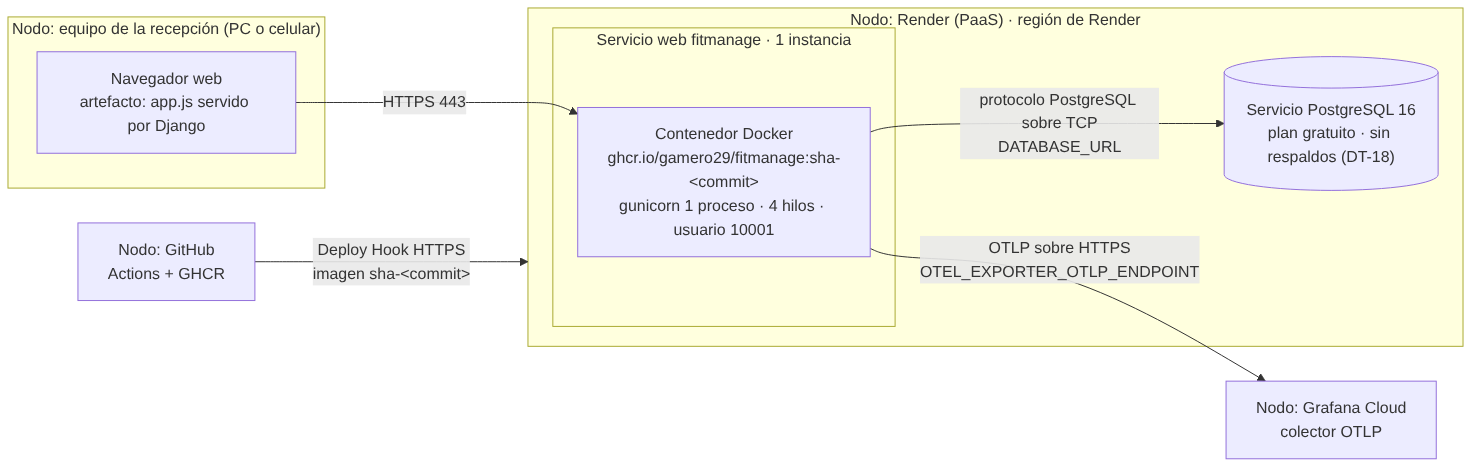
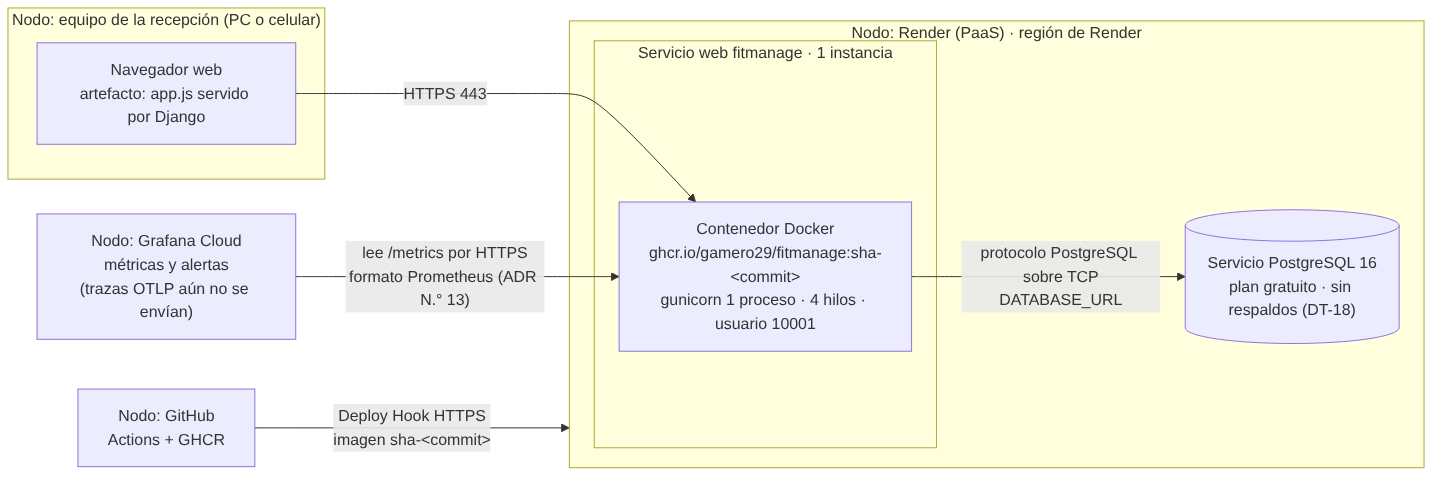
docs(SW3-02): la vista física corrige el enlace de observabilidad que propuso la IA
Grafana Cloud lee /metrics (formato Prometheus); las trazas OTLP de producción
todavía no se envían (ADR N.° 13). Se conserva la propuesta original y la
tabla de verificación afirmación por afirmación.

Claude-Session: https://claude.ai/code/session_01CgRjTNNy7k8MQdpVgHeNej

diff --git a/docs/sw3/g02/auditoria_ia.md b/docs/sw3/g02/auditoria_ia.md
@@ -1,0 +1,17 @@
+# Guía 02 · Auditoría del diagrama de despliegue propuesto por la IA
+
+**Herramienta:** Claude (Anthropic), 27/11/2026, en la misma sesión que resolvió la guía. Esa es una limitación: generó y auditó el mismo asistente. La verificación se apoya en archivos del repositorio, no en lo que el asistente recordaba.
+
+**Prompt:** «Con este inventario, sin credenciales: imagen Docker publicada en GHCR, gunicorn con Django, PostgreSQL 16 gestionado, Render como plataforma, Grafana Cloud para observabilidad, GitHub Actions para CI/CD. Dibuja el diagrama de despliegue con nodos, instancias, enlaces y protocolos en Mermaid.»
+
+**Salida conservada:** `vista_fisica_propuesta_ia.mmd` (y `.png`).
+
+| Afirmación del diagrama | Cómo la comprobé | Resultado |
+| --- | --- | --- |
+| La página `app.js` la sirve el mismo contenedor | `config/urls.py` (`recepcion/<str:nombre>`) e `infraestructura/web/vistas.py` | Coincide: no hay CDN ni servidor estático aparte. |
+| gunicorn con 1 proceso y 4 hilos, usuario 10001 | `docker/arrancar.sh` (línea `exec gunicorn … --workers 1 --threads 4`) y `Dockerfile` (`USER 10001`) | Coincide. |
+| La aplicación **envía** trazas y métricas por OTLP a Grafana Cloud | `infraestructura/observabilidad/telemetria.py`: las métricas usan `PrometheusMetricReader` y se publican en `/metrics`; el exportador OTLP de trazas solo se activa si existe `OTEL_EXPORTER_OTLP_ENDPOINT`. El ADR N.° 13 dice que las trazas de producción todavía no van a Grafana Cloud. | **No coincide.** El enlace es al revés y lleva otra cosa: Grafana Cloud **lee** `/metrics` en formato Prometheus. Corregido en `vista_fisica.mmd`. |
+| Base gratuita sin respaldos | DT-18 en `docs/deuda-tecnica.md` | Coincide. |
+| Una instancia del servicio web | No es observable en el repositorio: es un ajuste del panel de Render. | Se deja con esa fuente declarada; no se puede comprobar desde aquí. |
+
+**Corrección:** el enlace inferido «contenedor → Grafana Cloud por OTLP» se reemplazó por «Grafana Cloud → `/metrics`», y el nodo de Grafana Cloud dice ahora que las trazas OTLP aún no se envían.
